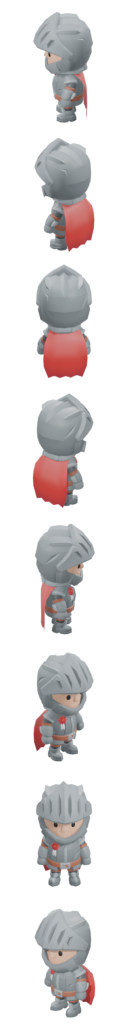
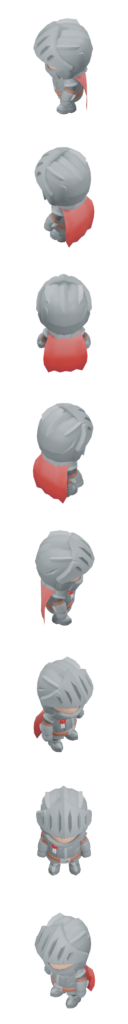
feat: re-render the characters at the pitched camera elevation

Changed region(s): [[0.25, 0.0, 0.75, 1.0], [0.2812, 0.5312, 0.3125, 0.5625]]

diff --git a/tools/blender/render_character.py b/tools/blender/render_character.py
@@ -11,6 +11,7 @@ Usage:
     --walk-action "Rig_Medium|Walking_A" \
     --walk-frames 6 \
     --out-key player
+    [--elevation 48.59]  # camera elevation in degrees; default matches the 64x48 game tile
 """
 import sys
 import os
@@ -20,7 +21,7 @@ import mathutils
 
 DIRECTIONS = 8
 FRAME_SIZE = 128  # render resolution per frame, square, cropped later if needed
-ELEVATION_DEG = 26.57  # matches the game's 2:1 dimetric ground tile projection
+DEFAULT_ELEVATION_DEG = 48.59  # asin(0.75): elevation matching the game's 64x48 ground tile (ratio 0.75)
 
 
 def parse_args():
@@ -137,7 +138,7 @@ def render_direction_frame(cam_obj, out_path):
     bpy.ops.render.render(write_still=True)
 
 
-def render_animation(character_fbx, anim_fbx, action_name, frame_numbers, out_dir, entity, anim_name):
+def render_animation(character_fbx, anim_fbx, action_name, frame_numbers, out_dir, entity, anim_name, elevation_deg):
     os.makedirs(os.path.abspath(out_dir), exist_ok=True)
 
     clean_scene()
@@ -197,7 +198,7 @@ def render_animation(character_fbx, anim_fbx, action_name, frame_numbers, out_di
 
     for direction in range(DIRECTIONS):
         azimuth = direction * (360.0 / DIRECTIONS)
-        position_camera(cam_obj, center, azimuth, ELEVATION_DEG, distance)
+        position_camera(cam_obj, center, azimuth, elevation_deg, distance)
         for i, frame in enumerate(frame_numbers):
             bpy.context.scene.frame_set(frame)
             bpy.context.view_layer.update()
@@ -243,13 +244,14 @@ def compose_sheet(render_dir, out_path, frame_count):
 def main():
     args = parse_args()
     entity = args["out-key"]
+    elevation_deg = float(args.get("elevation", DEFAULT_ELEVATION_DEG))
     renders_root = os.path.join("tools", "blender", "renders", entity)
     sheets_root = os.path.join("public", "assets", "characters", entity)
 
     idle_frames = [17]  # mid-pose of the 33-frame Idle_A cycle
     render_animation(
         args["character"], args["idle-fbx"], args["idle-action"], idle_frames,
-        os.path.join(renders_root, "idle"), entity, "idle",
+        os.path.join(renders_root, "idle"), entity, "idle", elevation_deg,
     )
     compose_sheet(os.path.join(renders_root, "idle"), os.path.join(sheets_root, "idle.png"), len(idle_frames))
 
@@ -258,7 +260,7 @@ def main():
     walk_frames = [1 + round(i * 32 / (walk_frame_count - 1)) for i in range(walk_frame_count)]
     render_animation(
         args["character"], args["walk-fbx"], args["walk-action"], walk_frames,
-        os.path.join(renders_root, "walk"), entity, "walk",
+        os.path.join(renders_root, "walk"), entity, "walk", elevation_deg,
     )
     compose_sheet(os.path.join(renders_root, "walk"), os.path.join(sheets_root, "walk.png"), walk_frame_count)
 

diff --git a/tools/blender/README.md b/tools/blender/README.md
@@ -22,7 +22,11 @@ Render: Blender 5.2.1, headless, via a purpose-written script (`render_character
      --walk-frames 6 \
      --out-key <player|assaltante>
    ```
-   This renders 8 directions (45° apart, orthographic, elevation 26.57° to match the game's 2:1 dimetric ground tiles) × 1 frame (idle, mid-cycle frame 17 of the 33-frame `Idle_A` clip) or 6 frames (walk, evenly sampled across the 33-frame `Walking_A` clip) per direction, then composes each (entity, animation) pair into a single grid PNG: 8 rows (one per direction) × N columns (animation frames), written to `public/assets/characters/<entity>/<idle|walk>.png`. Frame size: 128×128px per cell (both idle.png and walk.png share this — required for Phaser's uniform-grid `load.spritesheet`).
+   This renders 8 directions (45° apart, orthographic, camera elevation 48.59° = asin(0.75), the elevation that corresponds to the game's 64×48 ground tile; override with `--elevation <deg>`) × 1 frame (idle, mid-cycle frame 17 of the 33-frame `Idle_A` clip) or 6 frames (walk, evenly sampled across the 33-frame `Walking_A` clip) per direction, then composes each (entity, animation) pair into a single grid PNG: 8 rows (one per direction) × N columns (animation frames), written to `public/assets/characters/<entity>/<idle|walk>.png`. Frame size: 128×128px per cell (both idle.png and walk.png share this — required for Phaser's uniform-grid `load.spritesheet`).
+
+## Camera elevation (changed 2026-10-17)
+
+The game's ground projection is now a screen-aligned pitched one: a 64-unit tile is drawn 64×48 px (ratio 0.75), so the matching camera elevation is `asin(0.75)` ≈ 48.59°. The old 26.57° (2:1 dimetric, ratio 0.5) made the sprites look flatter than the ground. `render_character.py` takes `--elevation <deg>` (default 48.59). Only the elevation changed: the azimuth/row convention below is untouched (`ROW_ROTATION_OFFSET = 4`), and the sheet geometry is identical (frame 128×128, 8 rows; idle 1 column, walk 6 columns). After re-rendering at 48.59° the profile check below was repeated and still holds (row 0 faces screen-left, row 4 screen-right, row 2 back, row 6 front).
 
 ## Direction-row convention (calibrated 2026-09-07, wrong three times, root-caused 2026-09-13)
 

diff --git a/tools/blender/CHARACTERS.md b/tools/blender/CHARACTERS.md
@@ -5,3 +5,5 @@
 
 Source: KayKit Adventurers, https://kaylousberg.itch.io/kaykit-adventurers, free tier (v2.0), CC0.
 Downloaded: 2026-09-07.
+
+Re-rendered 2026-10-17 at camera elevation 48.59° (asin(0.75), matching the game's 64×48 pitched ground tile; was 26.57°). Same characters, animations, sheet geometry and row convention.
